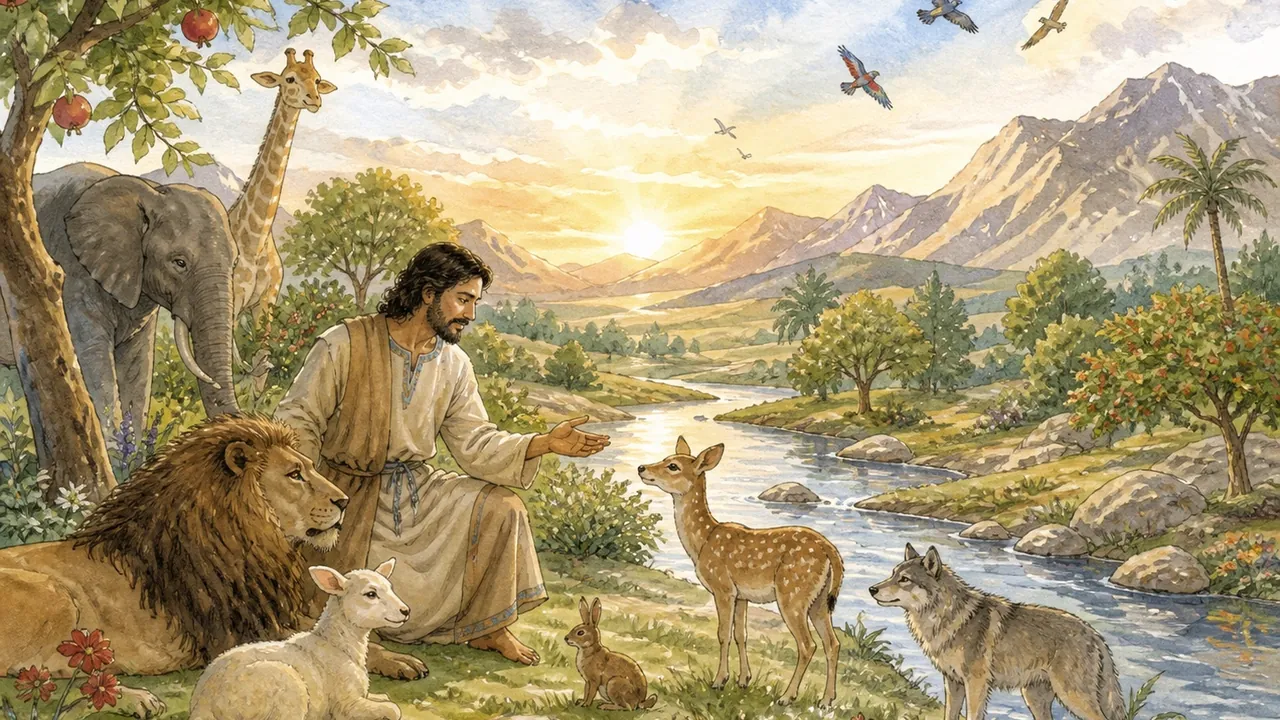
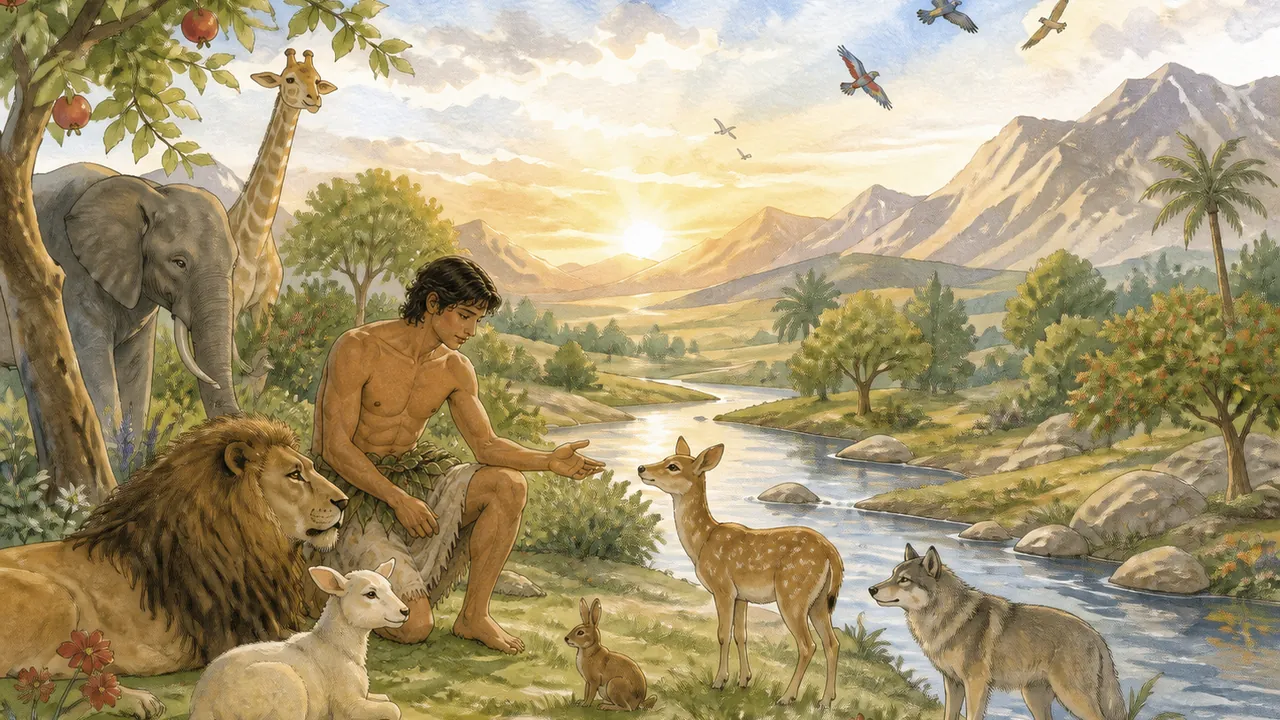
Rename 3 titles, swap in C2C transcripts, refresh 2 covers
- Renamed: 'Man and Woman Sin' -> 'The First Sin', 'The Thessalonians'
  -> 'Early Church', 'Resurrection of Jesus' -> 'Resurrection'
  (frontmatter title only; slugs/filenames unchanged).
- Replaced the English transcript body for 7 stories (Creation, The
  First Sin, Birth of Jesus, Paralytic Man, Blind Man, Death of Jesus,
  Resurrection) with the corresponding C2C-app story text, keeping
  each story's own Amdo frontmatter (media URLs, durations, etc).
- Replaced the Creation and Early Church cover images with newer
  illustrations.
- CLAUDE.md: corrected the stale cover-art section (grid is 16:9
  full-image now, not square-cropped) and documented the dev-server
  /_image transform-cache quirk hit while swapping the covers.

diff --git a/src/content/stories/blind-man.md b/src/content/stories/blind-man.md
@@ -8,16 +8,16 @@ videoDuration: "3:27"
 audioDuration: "3:22"
 ---
 
-Then, one day, while Savior Jesus and his students were going together to another place, on the road they met a blind man. Savior Jesus' students asked Savior Jesus: "Why can't this person's eyes see? Is it because his father and mother have sin? Or because he himself has sin?" They asked that.
+One day Savior Jesus and His closest followers saw a blind man. And His closest followers asked Him: "Why is this man blind? Is it because his parents sinned? Or because he himself sinned?"
 
-Savior Jesus replied back: "It is not because he has sin. It is also not because his father and mother have sin. Today through God, on this person, an amazing thing will happen." He said that.
+Jesus replied: "Neither. It's not because either one of them sinned. It's so that God can show His power in his life."
 
-Savior Jesus spit on the ground, prepared a small piece of mud, and rubbed it in the eyes of the blind person. Then (He) said to that blind person, "You go to the edge of the pond and wash your eyes." He said. The blind man washed off his eyes at the edge of the pond, and he saw very clearly. Then he went back.
+Then Jesus spit on the ground and made a small piece of mud and rubbed it in the eyes of the blind man. Then He said to the blind man, "Go to this certain pool and wash your eyes." So, the blind man went to the pool and washed off his eyes, and all of a sudden he could see.
 
-This blind man returned and arrived at his home and this place’s religious leaders asked him, "How were your eyes healed?" they asked that. He replied, "Savior Jesus made (them) well." He said that. The religious leaders wouldn’t listen to any of it. They didn’t have faith in/worship Savior Jesus and they didn’t believe this person either.
+And when he came back to town everyone couldn't believe what happened and the religious leaders asked him, "How were your eyes healed?" He replied, "The man named Jesus healed me." But the religious leaders didn't believe him because they hated Jesus.
 
-The religious leaders brought his parents here and asked them if this matter was true or not. That person's parents were very afraid of the religious leaders. Whoever had faith in Savior Jesus, there was a regulation to kick that person out of the religious house. For that reason, they weren't able to say that Savior Jesus had made their own son’s eyes well.
+So, the religious leaders brought his parents in and asked them if this was true or not. Now, the parents were very afraid of the religious leaders because they had said if anyone believes in Jesus, they would be kicked out of the synagogue (house of worship). So, the parents refused to back up their son's story of how he was healed.
 
-The religious leaders again called this guy and asked him. They said, "You speak true words. Who really healed your eyes?" they said. He replied back, "Savior Jesus made my eyes well. I think he's that person which God sent." (He) said that. Then the religious leaders were very unhappy. They ridiculed/mocked him, and threw him out of the religious house.
+So, the religious leaders called the guy back in and said, "Tell us the truth. Who really healed your eyes?" He replied, "I told you, Jesus healed me. He has to be from God."  Well, this infuriated the religious leaders. And they mocked him and kicked him out of the synagogue (house of worship).
 
-Savior Jesus heard about this whole matter. After this, this guy and Savior Jesus met. Savior Jesus asked that guy, "Do you have faith in that Savior that God sent?" he asked this. That person said back, "Who is He? If I knew, I would have faith. You tell me." (He) said that. Then Savior Jesus said, "That person is me." He replied like that. Then that man had faith in Savior Jesus and praised God.
+Jesus heard about everything that happened, so He went and found the man. And He asked him, "Do you believe in the Savior of the world?" The man replied, "Who is He? I don't know who He is, but I want to believe."  Then Jesus said, "I am the Savior of the world." Then the man said, "Yes, I believe in You," and he fell on his knees and began worshipping Jesus.

diff --git a/src/content/stories/fall-of-man.md b/src/content/stories/fall-of-man.md
@@ -1,5 +1,5 @@
 ---
-title: "Man and Woman Sin"
+title: "The First Sin"
 order: 2
 coverImage: "../../assets/stories/covers/2-Fall-of-Man.webp"
 video: "https://media.amdo.app/video/2-Fall-of-Man.mp4"
@@ -8,14 +8,18 @@ videoDuration: "2:54"
 audioDuration: "2:47"
 ---
 
-The man and woman lived in the garden God made. In this garden there were many delicious fruit. Not only this, but in the garden there was also a tree to know the difference between good and evil.
+The man and woman lived in the garden God made. In this garden there were many delicious fruits. And there was also a certain tree to know the difference between good and evil.
 
-God told the man and woman, “In this garden you 2 can eat whatever fruit. But the fruit upon the tree to know the difference between good and evil, you may not eat. If you eat it, you 2 will die,” He said like that.
+God told the man and woman, "You can eat any fruit you want in the garden. But don't eat the fruit on the tree to know the difference between good and evil. If you eat it, you'll die."
 
-One day a snake came to the woman’s side, and said, “Did God say you 2 cannot eat any fruit in the garden?” he asked that. This woman said, “God told the 2 of us we can eat the fruit of any fruit tree. But do not eat the fruit upon the tree to know the difference between good and evil. If we eat it, we will die. He said like that,” she said like that. The snake said, “You 2 will not die. If you eat this fruit, you 2 will become like God. For this reason God said not to eat this fruit,” he said that.
+One day a snake came to the woman and said, "Did God say you can't eat any fruit in the garden?" The woman replied, "God told us we can eat the fruit of any tree. But we're not allowed to eat the fruit on the tree to know the difference between good and evil. If we eat it, we will die." Then the snake said, "You're not going to die. In fact, if you eat it, you'll be just like God. That's why He told you not to eat this fruit."
 
-Then the woman thought about what the snake said, and she wanted to be a wise person. She ate the fruit. She gave some to the man beside her, and he also ate. Before, they were naked. But they didn’t know they were naked. After they ate the fruit they knew they were naked and began to be embarrassed.
+Then the woman thought about what the snake said, and she wanted this knowledge the fruit could give her. So, she ate it. Then she gave some to the man beside her, and he also ate it.
 
-Sometime later God came into the garden. The man and the woman were afraid, and hid among the trees/forest. Then God asked, “Man, where are you?” He asked that. The man told God everything that the 2 of them had done. Not only this, the man put all the blame on the woman. Then the woman also put all the blame on the snake.
+Now before, the man and the woman were naked, but they didn't know they were naked. But after they ate the fruit, they immediately knew they were naked and were embarrassed and ashamed.
 
-Then God punished them. “One day you 2 will die,” God said like that. Then God kicked the man and woman out of the garden. Them 2 could never go back into the garden. From then on, there was sin in the world. There was also suffering in the world. But, God had compassion and helped them regularly.
+Well, sometime later God came into the garden, and the man and the woman were afraid, and hid among the trees. Then God called out, "Hey, where are you?"  Finally, the man came and told God everything the 2 of them had done. And of course he blamed the woman for everything. Then the woman herself blamed the snake for everything.
+
+And so, God punished them 1 by 1. He told the woman, "You're going to suffer a lot of pain during childbirth." And to the man, He said, "You're going to struggle a lot to get food." Lastly, God told them, "And one day, you are going to die."
+
+Then God kicked the man and woman out of the garden. From then on, there was sin and suffering in the world. But God had compassion on them, and He continued to help them in their lives.

diff --git a/src/content/stories/birth-of-jesus.md b/src/content/stories/birth-of-jesus.md
@@ -8,14 +8,16 @@ videoDuration: "2:33"
 audioDuration: "2:28"
 ---
 
-Most of the people in the world did pure evil works. They had faith in/worshipped idols. God did not like that. But God still had compassion on all the people. In order to save all people from sin, He sent a Savior.
+After the first man and woman sinned, there became more and more people in the world, and there became more and more evil and suffering. Most people rejected God and did whatever they wanted (and even worshipped other gods).
 
-If it said "How did God send the Savior?” In the past, there was a woman named Maryam. That woman called Maryam had never slept with another person. But she had signed a marriage contract (like engaged, not signed a marriage certificate officially declaring marriage) with a man. That man was a carpenter. Their faith in God was very great.
+God was not happy about this all, but He still had compassion on everyone. So, in order to save all people from their sins, He sent a Savior. And this is how He did it.
 
-One day, an angel came to Maryam's side, "You are going to give birth to a Son. That Son is God's Son. He is a king," (he) said it like that.
+2,000 years ago, there was a woman named Mary. Now Mary had never slept with anyone, but she was engaged to a certain man named Joseph. And they both loved God very much.
 
-But in the heart of the man who had signed a marriage contract with Maryam, he thought about divorcing her. Then one evening, an angel appeared in the dream of the man who had signed the marriage contract with Maryam. The angel said, “Do not divorce Maryam. God made a Son form inside Maryam's womb. That Son will save all people from sin." (He) said it like that. Then, the two of them got married.
+One day, an angel came to Mary and said, "You are going to give birth to a Son. And He is God's Son and will be very great." And so, Mary became pregnant even though she had never slept with anyone.
 
-After this, the two of them went to their hometown. But, at that time, all the hotels were full of people. They had no place to stay. Therefore, the two of them stayed in a livestock enclosure. That evening, Maryam gave birth (hon.) to a Son. This one’s name was called Jesus. Jesus means, "God is salvation/God, or having to do with salvation".
+When Joseph discovered that Mary was pregnant, he thought about breaking off the engagement. Then one evening, an angel appeared to Joseph in a dream. The angel said, "Don't break up with Mary. God has put this child in Mary. And this child will save people from their sins."  So, Joseph did not break up with Mary, and the two of them got married.
 
-At that time, around that place/in the area some shepherds were taking care of their sheep. Suddenly, some angels arrived in the sky. The shepherds became scared. But one angel (said), "You don't need to be afraid. Today, for the sake of all people, a Savior has been born." (He) said it like that. Then the shepherds paid a visit to Savior Jesus, their hearts were very happy.
+After this, the two of them went to the hometown of their ancestors. But, at that time, all the hotels were full, and they had no place to stay. So, they ended up staying in a barn. That evening, Mary gave birth to a Son, and His name was called Jesus. The name Jesus means, "God saves".
+
+Now in the area, some shepherds were taking care of their sheep. Suddenly, many angels arrived in the sky, and the shepherds became scared. But one angel said, "Don't be afraid. I come with Good News. Today a Savior has been born nearby." So, the shepherds went and visited Savior Jesus, and they were so happy and were praising God.

diff --git a/src/content/stories/resurrection-of-jesus.md b/src/content/stories/resurrection-of-jesus.md
@@ -1,5 +1,5 @@
 ---
-title: "Resurrection of Jesus"
+title: "Resurrection"
 order: 10
 coverImage: "../../assets/stories/covers/10-Resurrection-of-Jesus.webp"
 video: "https://media.amdo.app/video/10-Resurrection-of-Jesus.mp4"
@@ -8,14 +8,16 @@ videoDuration: "2:32"
 audioDuration: "2:25"
 ---
 
-After Savior Jesus died upon a wooden cross, other people buried His body in a tomb. Three days later, some women who had faith in Savior Jesus went to where His tomb was. Then, when they arrived at the place where the tomb was and took a look around, not only had the tomb's entrance been opened, Savior Jesus' body was no longer there. They became surprised. At that time 2 angels arrived, "Because Savior Jesus has become alive again, He is not here." Like that said.
+After Savior Jesus died on the cross, some people buried His body in a tomb. Three days later, some women who believed in Jesus went to His tomb. When they arrived there, the tomb's entrance was open, and Jesus' body was no longer there. And they were shocked and confused. Suddenly, 2 angels appeared and said, "Jesus is not here. He has come back to life."
 
-Then those women became happy, and ran off and told Savior Jesus' students this situation/news. The students thought that the women had gone crazy. What they say isn’t true. How can it be true, they thought.
+The women were so happy and ran back and told Jesus' closest followers the news. But they thought the women were crazy and didn't believe them.
 
-That evening, as Savior Jesus' students and some (others) who had faith in Him were gathered together, Saviour Jesus suddenly arrived among them. They were afraid and surprised. Savior Jesus (said), "You don't need to be afraid. Look at me. It's me." He said like that. And when they saw that Savior Jesus had really come back to life, and they became very happy.
+That evening, as Jesus' closest followers were gathered together, Jesus suddenly appeared. And they were completely scared thinking it was a ghost or something. Jesus said to them, "Don't be afraid. Look, It's me." And when they saw that Jesus really had come back to life, they were so excited.
 
-Then He, (told them) why He needed to be killed, and about why He needed to be made alive again, (He) clearly told them.
+Then Jesus explained to them why He needed to die and come back to life. If someone wonders why Jesus had to die and come back to life, this is why:
 
-If one asks why, some of Jesus’ students (announced), “Whoever has sin, God must punish that person. But Savior Jesus in place of all people, and for the sake of cleansing people's sins, (He) died upon a wooden cross.
+Whoever has sinned, God must punish that person just like He did with the first man and woman.
 
-Whoever changes their heart (repents), and has faith in Savior Jesus alone, that person's sins are not only cleansed, he will be saved/delivered. That is the good news about Jesus.” Like that announced.
+But just as God had compassion on the first man and woman, He also has compassion on us and sent the Savior Jesus to die on a cross in our place in order to take the punishment we deserve and cleanse our sins.
+
+Whoever turns away from their sin and believes in Savior Jesus alone, that person's sins are not only cleansed, but they will be like a brand-new person. This is the good news about Jesus.

diff --git a/CLAUDE.md b/CLAUDE.md
@@ -92,9 +92,9 @@ Covers follow: `[order]-[Title-With-Hyphens].webp`
 R2 object keys follow the same `[order]-[Title-With-Hyphens]` base, under `video/` and `audio/` prefixes.
 
 ## Cover art sizing
-Covers are custom-illustrated (replacing the original placeholder art from another project), 1280×720 WebP, 16:9 to match the actual video files' native resolution (854×480, also 16:9) — this matters because these images double as `<video poster>`: a mismatched aspect ratio letterboxes and can cause a layout jump when the video's real dimensions load. One image per story serves both the grid (square-cropped via `object-fit: cover`) and the poster (shown near-native); we deliberately didn't split into two separate crops — see judgment call below. 1280px wide is 2x retina-sharp at the largest CSS display width in the app (~680px, the modal/story-page container) — `getImage()` in both `index.astro` and `[slug].astro` requests `width: 1280` to actually deliver that resolution to the browser (bumped up from an earlier 680, which was capping output regardless of source size).
+Covers are custom-illustrated (replacing the original placeholder art from another project), 1280×720 WebP, 16:9 to match the actual video files' native resolution (854×480, also 16:9) — this matters because these images double as `<video poster>`: a mismatched aspect ratio letterboxes and can cause a layout jump when the video's real dimensions load. One image per story serves both the grid and the poster — the grid card (`StoryCard.astro`) shows the full image via `aspect-video` (no cropping, changed from an earlier square crop that clipped subjects at the edges on wide compositions). 1280px wide is 2x retina-sharp at the largest CSS display width in the app (~680px, the modal/story-page container) — `getImage()` in both `index.astro` and `[slug].astro` requests `width: 1280` to actually deliver that resolution to the browser (bumped up from an earlier 680, which was capping output regardless of source size).
 
-**Judgment call — single image, not two:** a wide 16:9 composition auto-cropped to a square for the grid can clip subjects at the edges (e.g. Blind Man's story has a group of people at the right edge that gets tight in the square crop). We accepted this tradeoff to avoid doubling the asset count and adding a second frontmatter field — revisit per-story only if a specific crop looks bad, not by default.
+**Replacing a cover image file:** if you swap a source file in `src/assets/stories/covers/` for a new one with the *same filename* (as opposed to changing the frontmatter path), the Astro **dev server's** `/_image` transform endpoint can keep serving the old cached output even after a hard reload / cache-busted fetch — it caches transforms in-memory per process, keyed by the request URL, which doesn't change if the new file happens to share the old one's dimensions/format. Confirmed via `/@fs/...` that the raw file itself was correct; only the transform cache was stale. Fix: restart the dev server (`npm run dev`). Production builds (`npm run build`) aren't affected — each build reprocesses from scratch.
 
 ---
 

diff --git a/src/content/stories/death-of-jesus.md b/src/content/stories/death-of-jesus.md
@@ -8,14 +8,18 @@ videoDuration: "2:20"
 audioDuration: "2:15"
 ---
 
-Savior Jesus had no crimes/bad deeds, but some people didn't like Savior Jesus, and wanted to kill Him. One evening, Savior Jesus was in a garden. (He) was praying to God. At that time, suddenly, some of this places’ religious leaders brought some soldiers and arrived to capture him, then (they) captured him.
+Savior Jesus never sinned or did anything bad at all, but some people hated Him and wanted to kill Him. So, one evening while Jesus was praying in a garden, religious leaders suddenly came with soldiers and arrested Him.
 
-Then the soldiers beat Savior Jesus with a (horse-)whip, and beat him many times. Also, they made Savior Jesus carry a huge wooden cross, and they went to the place of execution.
+And that night they held a secret trial where lots of people lied about Jesus, and they sentenced Him to death.
 
-They arrived at this place and spread his 2 hands in 2 directions, and nailed 2 iron pegs/stakes. Then they crossed his 2 feet, and nailed an iron peg/stake into them. Then they erected this large wooden cross/cross.
+The next morning soldiers beat Jesus with a jagged whip until He was almost unrecognizable. Then they made Jesus carry a huge wooden cross and led Him to the place of execution.
 
-The crowd who was watching the spectacle of Savior Jesus mocked Him, and ridiculed Him, and showed much dislike/anger. But Savior Jesus prayed, "Father God, these people do not understand what they themselves are doing. Therefore, You forgive them." (He) prayed that.
+When they arrived at the place of execution, they spread His arms out on the wooden cross and nailed a stake in each hand. Then they crossed His feet and nailed a stake into them as well. And they lifted up the large wooden cross where Jesus hung there dying.
 
-At that time it was noon. Suddenly darkness covered (everything). For several hours long, Savior Jesus was stretched out upon the wooden cross. Then Savior Jesus said, "All matters are finished/accomplished.", he said. After this, He died.
+But in the midst of this all, Savior Jesus prayed for His executors saying, "God, forgive these people. They don't understand what they are doing."
 
-The people who were beside the wooden cross suddenly wept. Not only this, a soldier said, "This person was truly an upright person. He really must have been God's Son." He said like that. Then some people buried Savior Jesus' body in a tomb.
+The crowd who was watching this whole spectacle began mocking Jesus and said, "This man supposedly saved other people, but look at Him now. If you really are the Savior of the World, then save yourself and come down off the cross."
+
+But Jesus didn't respond to them or do anything at all, and He remained there hanging on the cross. Finally, after several hours on the cross, Savior Jesus said, "It is finished", and He died.
+
+And the people who were beside the wooden cross suddenly began crying. And even a soldier said, "This man really was the Son of God." Then, after this, some people took Jesus' body off the cross and buried Him in a tomb.

diff --git a/src/content/stories/paralytic-man.md b/src/content/stories/paralytic-man.md
@@ -8,14 +8,16 @@ videoDuration: "1:48"
 audioDuration: "1:44"
 ---
 
-Savior Jesus grew up, and, after He was thirty years old, He went to places all around, He announced God's Word/religion, and healed people's illnesses. At this time Savior Jesus became famous.
+Savior Jesus grew up, and when He was 30 years old, He started going to many places teaching about God and healing the sick. At this time Savior Jesus became famous.
 
-One day, he went to a home and was teaching God's Word/religion. While he was teaching religion/the Word, some people, having placed a lame person on a board of wood, carried him to Savior Jesus' side. But there were many people at that house. Therefore they weren't able to go to Savior Jesus' side. Then they went up on the house, lifted off the roof of the house, and lowered the lame person with the wooden board in front of Savior Jesus.
+One day Jesus was in a house teaching about God, and there were lots of people who came to listen to Him, so much so that people were spilling out of the house.
 
-Then, Savior Jesus knew these people’s faith, He said to that lame person, "Friend, all your sins are cleansed." He said that.
+While He was teaching, some people brought a paralyzed man on a stretcher to be healed by Jesus. But since the house was so full, they couldn't get to Jesus, so they went on the roof and somehow made a hole in it and lowered the paralyzed man right in front of Jesus.
 
-That place's religious leaders heard this talk, "Ahh(negative sounding)... What kind of thing is this (person) saying? Besides God, who can cleanse a person's sins?" They spoke like that back and forth. Then Savior Jesus(said), "I have the power to cleanse people’s sins. I will show you this. You all watch." He said that.
+When Jesus saw their faith, He looked at the paralyzed man and said, "Your sins are forgiven".
 
-Savior Jesus (said) to that lame person, "You get up, carry your mat, and go home." He said that. That lame person got up from that spot, and praised God. After that he went home.
+Now there were some religious leaders in the crowd. When they heard Jesus say this, they were thinking to themselves, "What? He can't say that. Only God can forgive sins".
 
-Then, all the people were amazed and started praising God.
+Well, Jesus knew what they were thinking and He turned to them and said, "What's easier? To say your sins are forgiven, or get up and walk? I'll show you I can forgive sins."
+
+And Jesus turned to the paralyzed man and said, "Get up and go home".  Immediately, the man jumped up, grabbed his mat and walked out praising God. And everyone was amazed and said, "We have never seen anything like this before".

diff --git a/src/content/stories/creation-of-the-physical-world.md b/src/content/stories/creation-of-the-physical-world.md
@@ -8,16 +8,14 @@ videoDuration: "2:17"
 audioDuration: "2:09"
 ---
 
-In the beginning, there was only God in the world. God made the world(sky-earth), land, mountains, water, and the various kinds of animals. God also made a man.
+Before the world existed, there was God, and there was only God. And God made the entire world. He made the land, the sky, the oceans, and everything that's in them. And He also made all the various kinds of animals in the world.
 
-If it is said, "How did God make people?" (He) took the dust of the earth, made the form/image of a person, He breathed life into the person’s nose, then the person became alive.
+And after this, God also made a man. This is how He made him. He took dust from the ground and formed a person. Then He breathed into his nose, and instantly, the man became alive.
 
-God also made a garden. In the garden, there was a river and different kinds of trees, not only this, but many delicious fruit on the trees.
+God also made a garden. In the garden, there were different kinds of trees and many delicious fruits on these trees. And God put the man in the garden to live there and take care of it. And so he did.
 
-God made that person live in the garden, and had (him) take care of the garden. Then that person took care of the garden, and did farm work in the garden.
+One day, God brought all the animals before the man and told him to name them all. So, one by one they came, and he named everyone of them.
 
-One day, God brought all the various kinds of animals before that person, and had that person name them. That person gave names to every animal. Then every animal had its own name.
+Now, every animal had its own companion, but the man was alone. So, God put that man into a deep sleep, and took a rib from him, and made a woman. Then God brought the woman before the man, and he was so happy and said "Wow, she is just like me."
 
-Every animal had its own living companion and going companion. But the person was alone. So God put that person into a deep sleep, and took a rib from that person, and made a woman. Then God brought the woman before the person, and the person was very happy, “Wow, this is really like me.” (he) said.
-
-Then God blessed them man and the woman and put them in charge over all that He made. God looked at all He made, and He thought it was very good. At this time there was not any sin, there was also not any suffering. Everything was very good.
+Then God blessed the man and the woman and put them in charge over all that He made. And God looked across everything He created, and it was perfect. There was no sin, there was no suffering. Everything was perfect.

diff --git a/src/content/stories/the-thessalonians.md b/src/content/stories/the-thessalonians.md
@@ -1,5 +1,5 @@
 ---
-title: "The Thessalonians"
+title: "Early Church"
 order: 11
 coverImage: "../../assets/stories/covers/11-The-Thessalonians.webp"
 video: "https://media.amdo.app/video/11-The-Thessalonians.mp4"
